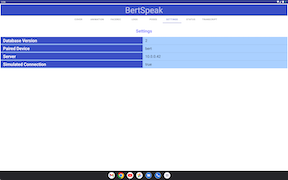
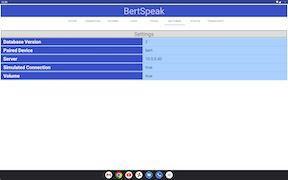
Connected volume control.

Changed region(s): [[0.0, 0.1667, 1.0, 0.4444], [0.0, 0.0, 1.0, 0.1389], [0.0, 0.9444, 1.0, 1.0]]

diff --git a/BertSpeak/root/src/main/kotlin/chuckcoughlin/bertspeak/db/DatabaseManager.kt b/BertSpeak/root/src/main/kotlin/chuckcoughlin/bertspeak/db/DatabaseManager.kt
@@ -104,6 +104,12 @@ object DatabaseManager {
                     BertConstants.BERT_SIMULATED_CONNECTION_HINT)
             execLenient(statement)
 
+            statement =
+                String.format("INSERT INTO Settings(Name,Value,Hint) VALUES(\'%s\',\'%s\',\'%s\')",
+                    BertConstants.BERT_VOLUME, BertConstants.BERT_VOLUME_HINT,
+                    BertConstants.BERT_VOLUME_HINT)
+            execLenient(statement)
+
             //Log.i(CLSS, String.format(
              //   "initialize: Guarantee %s settings exist in %s at %s",
             //BertConstants.BERT_SIMULATED_CONNECTION,BertConstants.DB_NAME, statement))
@@ -114,10 +120,11 @@ object DatabaseManager {
     // ===================== Settings =============================
     /**
      * Read name/value pairs from the database.
+     * Return an empty string if the field is not found
      */
-    fun getSetting(name: String): String? {
+    fun getSetting(name: String): String {
         synchronized(this) {
-            var result: String? = null
+            var result: String = ""
             val args = arrayOfNulls<String>(1) // Use for PreparedStatement
             args[0] = name
             val SQL = "SELECT value FROM Settings WHERE Name=?"
@@ -157,11 +164,19 @@ object DatabaseManager {
      * Save a single setting to the database.
      * @param nv the subject name-value pair
      */
-    fun updateSetting(nv: NameValue?) {
+    fun updateSetting(nv: NameValue) {
         synchronized(this) {
+            // Validate
+            if( nv.name.equals(BertConstants.BERT_VOLUME)) {
+                var value = nv.value.toDouble()
+                if( value == Double.NaN ) value = 0.5
+                else if( value >1.0 )   value = 1.0
+                else if( value<0.0  )   value = 0.0
+                nv.value = value.toString()
+             }
             val SQL = "UPDATE Settings set value=?, hint=? WHERE name = ?"
             val bindArgs = arrayOfNulls<String>(3)
-            bindArgs[0] = nv!!.value
+            bindArgs[0] = nv.value
             bindArgs[1] = nv.hint
             bindArgs[2] = nv.name
             database.execSQL(SQL, bindArgs)

diff --git a/BertSpeak/root/src/main/kotlin/chuckcoughlin/bertspeak/tab/CoverFragment.kt b/BertSpeak/root/src/main/kotlin/chuckcoughlin/bertspeak/tab/CoverFragment.kt
@@ -17,10 +17,13 @@ import android.widget.SeekBar
 import android.widget.SeekBar.OnSeekBarChangeListener
 import androidx.lifecycle.Lifecycle
 import chuckcoughlin.bertspeak.R
+import chuckcoughlin.bertspeak.common.BertConstants
 import chuckcoughlin.bertspeak.common.DispatchConstants
+import chuckcoughlin.bertspeak.common.NameValue
 import chuckcoughlin.bertspeak.data.StatusData
 import chuckcoughlin.bertspeak.data.StatusDataObserver
 import chuckcoughlin.bertspeak.databinding.FragmentCoverBinding
+import chuckcoughlin.bertspeak.db.DatabaseManager
 import chuckcoughlin.bertspeak.service.DispatchService
 import chuckcoughlin.bertspeak.service.ManagerState
 import chuckcoughlin.bertspeak.service.ManagerType
@@ -73,8 +76,11 @@ class CoverFragment (pos:Int): BasicAssistantFragment(pos), StatusDataObserver, 
         waveformView.setRenderer(
             rendererFactory.createSimpleWaveformRenderer(Color.GREEN, Color.DKGRAY)
         )
+        // Seek Bar 0-100
         seekBar = binding.verticalSeekbar
         seekBar.setOnSeekBarChangeListener(this)
+        val prog = (DatabaseManager.getSetting(BertConstants.BERT_VOLUME)).toDouble()
+        seekBar.progress = (prog*100).toInt()
         val pm = PermissionManager(requireActivity())
         pm.askForPermissions()
         return binding.root
@@ -201,14 +207,13 @@ class CoverFragment (pos:Int): BasicAssistantFragment(pos), StatusDataObserver, 
     }
 
     // ====================OnSeekBarChangeListener =====================
-    override fun onStopTrackingTouch(seekBar: SeekBar?) {}
+    override fun onStopTrackingTouch(seekBar: SeekBar) {}
+    override fun onStartTrackingTouch(seekBar: SeekBar) {}
 
-
-    override fun onStartTrackingTouch(seekBar: SeekBar?) {}
-
-
-    override fun onProgressChanged(seekBar: SeekBar?, progress: Int,fromUser: Boolean) {
-        //sliderText.setText("" + progress)
+    override fun onProgressChanged(seekBar: SeekBar, progress: Int,fromUser: Boolean) {
+        val prog = progress.toDouble()/100.0
+        val nv = NameValue(BertConstants.BERT_VOLUME,prog.toString())
+        DatabaseManager.updateSetting(nv)
     }
 
 

diff --git a/BertSpeak/root/src/main/kotlin/chuckcoughlin/bertspeak/common/BertConstants.kt b/BertSpeak/root/src/main/kotlin/chuckcoughlin/bertspeak/common/BertConstants.kt
@@ -22,14 +22,16 @@ object BertConstants {
     const val BERT_SERVER = "Server"
     const val BERT_PORT = "Port"
     const val BERT_PAIRED_DEVICE = "Paired Device"
-    const val BERT_VERSION = "Database Version"
     const val BERT_SIMULATED_CONNECTION = "Simulated Connection"
+    const val BERT_VERSION = "Database Version"
+    const val BERT_VOLUME = "Volume"
 
     // These are the default values for the settings
     const val BERT_SERVER_HINT = "10.0.0.42"
     const val BERT_PORT_HINT = "11046"
     const val BERT_PAIRED_DEVICE_HINT = "bert"
     const val BERT_VERSION_HINT = "2"
+    const val BERT_VOLUME_HINT = "0.5"
     const val BERT_SERVICE_UUID_HINT = "33001101-0000-2000-8080-00815FAB34FF"
     const val BERT_SIMULATED_CONNECTION_HINT = "false"
 
@@ -43,11 +45,6 @@ object BertConstants {
     const val NO_JOB    = -1
     const val NO_NAME  = "NO_NAME"
     const val NO_TITLE  = "NO_TITLE"
-
-
-    // Notifications
-    const val NOTIFICATION_CHANNEL_ID = "speechServiceChannel"
-    const val NOTIFICATION_CHANNEL_NAME = "Spoken Text Channel"
 
     // Name of the main node on the tablet
     const val MAIN_NODE_NAME = "tablet_node_main"

diff --git a/BertSpeak/root/src/main/kotlin/chuckcoughlin/bertspeak/service/DispatchService.kt b/BertSpeak/root/src/main/kotlin/chuckcoughlin/bertspeak/service/DispatchService.kt
@@ -197,15 +197,13 @@ class DispatchService(ctx: Context){
             instance.textManager.clear(type)
         }
         fun restoreAudio() {
-            //AudioManager audio = (AudioManager) getSystemService(Context.AUDIO_SERVICE);
-            //audio.setStreamVolume(AudioManager.STREAM_MUSIC, 0, AudioManager.FLAG_PLAY_SOUND);
+            instance.annunciationManager.restoreAudio()
         }
-
-        // Mute the beeps waiting for spoken input. At one point these methods were used to silence
-        // annoying beeps with every onReadyForSpeech cycle. Currently they are not needed (??)
+        fun setVolume(vol:Int) {
+            instance.annunciationManager.setVolume(vol)
+        }
         fun suppressAudio() {
-            //AudioManager audio = (AudioManager) getSystemService(Context.AUDIO_SERVICE);
-            //audio.setStreamVolume(AudioManager.STREAM_MUSIC, 0, AudioManager.FLAG_REMOVE_SOUND_AND_VIBRATE);
+            instance.annunciationManager.suppressAudio()
         }
     }
     val CLSS = "DispatchService"

diff --git a/BertSpeak/root/src/main/kotlin/chuckcoughlin/bertspeak/service/AnnunciationManager.kt b/BertSpeak/root/src/main/kotlin/chuckcoughlin/bertspeak/service/AnnunciationManager.kt
@@ -95,6 +95,20 @@ class AnnunciationManager(service:DispatchService): CommunicationManager, TextTo
 			dispatcher.stopSpeech()
 		}
 	}
+	fun restoreAudio() {
+		//AudioManager audio = (AudioManager) getSystemService(Context.AUDIO_SERVICE);
+		//audio.setStreamVolume(AudioManager.STREAM_MUSIC, 0, AudioManager.FLAG_PLAY_SOUND);
+	}
+	fun setVolume(vol:Int) {
+		//AudioManager audio = (AudioManager) getSystemService(Context.AUDIO_SERVICE);
+		//audio.setStreamVolume(AudioManager.STREAM_MUSIC, 0, AudioManager.FLAG_PLAY_SOUND);
+	}
+	// Mute the beeps waiting for spoken input. At one point these methods were used to silence
+	// annoying beeps with every onReadyForSpeech cycle. Currently they are not needed (??)
+	fun suppressAudio() {
+		//AudioManager audio = (AudioManager) getSystemService(Context.AUDIO_SERVICE);
+		//audio.setStreamVolume(AudioManager.STREAM_MUSIC, 0, AudioManager.FLAG_REMOVE_SOUND_AND_VIBRATE);
+	}
 
 	val CLSS = "AnnunciationManager"
 	val UTTERANCE_ID = CLSS

diff --git a/docs/testplan.md b/docs/testplan.md
@@ -254,8 +254,8 @@ likewise formulated into audible sentences.
 * ![green](/images/ball_green.png) ```Cover```
 
 The cover page shows a reclining picture of
-the robot. It also contains controls to
-enable/disable speech and to adjust the
+the robot and an audio visualizer. It also contains controls to
+enable/disable speech, to adjust the
 volume, and to kill the application.
 
 * ![yellow](/images/ball_yellow.png) ```Ignoring```
@@ -291,7 +291,8 @@ application errors are logged to this panel.
 
 ![Settings](/images/bertspeak_settings.png)
 
-* ![yellow](/images/ball_yellow.png) ```Settings```
+* ![green](/images/ball_green.png) ```Settings```
+
 There are a small number of configurable parameters
 that are settable on this page.
 
